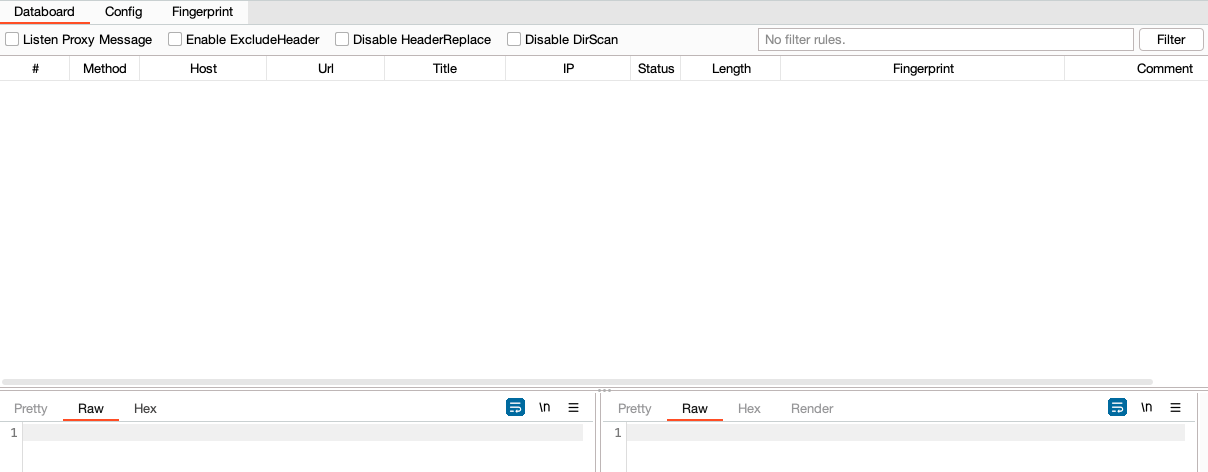
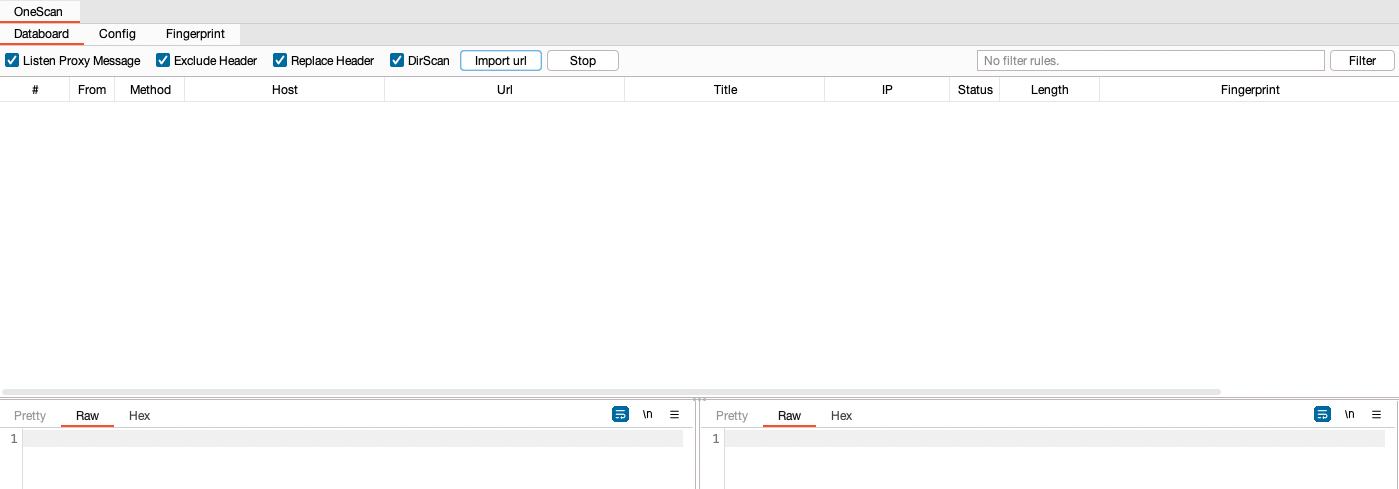
更新README.md中的一些说明和截图

Changed region(s): [[0.0, 0.0, 1.0, 0.2076], [0.0, 0.7712, 1.0, 1.0]]

diff --git a/README.md b/README.md
@@ -98,6 +98,8 @@ C:\Users\<用户名>\.config\OneScan\
 - `Replace Header` 开关请求头替换（默认启用），使用 `Request -> Header` 中配置的请求头请求数据
 - `DirScan` 开关递归扫描（默认启用），对目标进行递归扫描
 - `Filter` 设置数据过滤规则
+- `Import url` 导入 Url 目标进行扫描
+- `Stop` 停止正在扫描的任务
 
 #### 过滤规则配置
 
@@ -184,13 +186,14 @@ Other配置界面如下
 
 #### 指纹规则说明
 
-包含六种数据源
+包含七种数据源
 
 - `header` Header
 - `server` Header 中的 Server 值
 - `body` Body 数据
 - `title` Html 标题
 - `bodyMd5` Body 数据 MD5 值
+- `bodyHash` Body 数据 Hash 值
 - `banner` 其它协议的 Banner 信息（HTTP协议无法匹配该值）
 
 共有十种匹配方法
